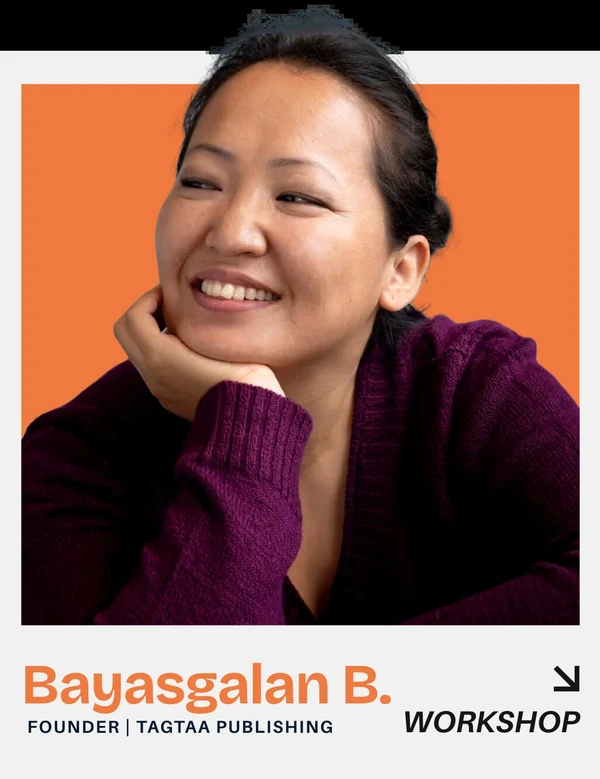
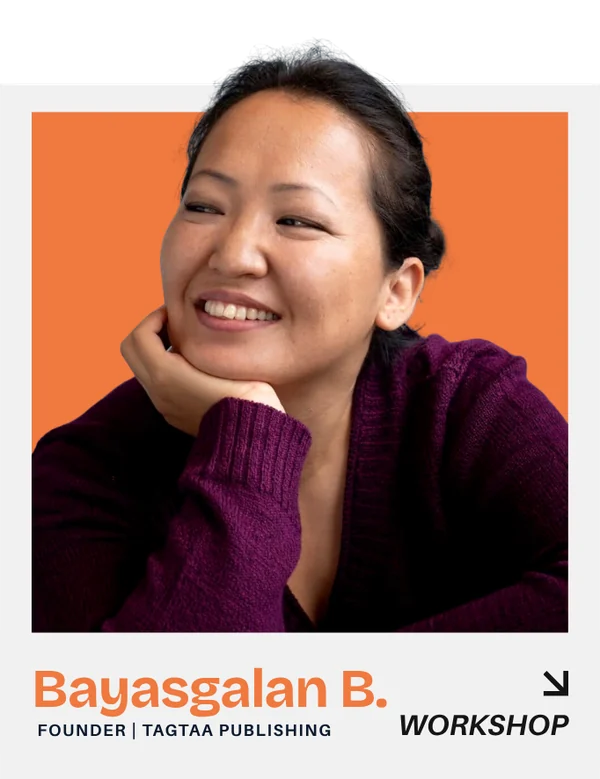
Add the three new card masters and redo their derivatives
Bayasgalan, Ogo and Yulkendy arrived as derived WebPs only, cropped
tighter than the other eight: the frame's side margins were cut off and
the top of the hair clipped. Their masters are here now, and the card
and face copies are rebuilt from them with the documented crop, so all
eleven cards frame identically.

Also drops the five headshots the 2026 pages stopped using, and points
nhub.html's hero at the photo it was already falling back to —
nhub-2022-boston.jpg has never existed in the repo.

Claude-Session: https://claude.ai/code/session_01RxyfAX6zc7pmK82cHkvsg3

diff --git a/nhub.html b/nhub.html
@@ -49,7 +49,7 @@
 <!-- ============ HERO · photo card with overlay (programs.html pattern) ============ -->
 <section class="l-hero">
   <div class="l-hero-photo">
-    <img src="assets/photos/nhub-2022-boston.jpg" alt="NHUB Team 2 presenting at MNG Summit 2022 Boston, Future of Work" onerror="this.src='assets/photos/nhub-tegshee-2024.jpg';" />
+    <img src="assets/photos/nhub-tegshee-2024.jpg" alt="NHUB participant presenting at MNG Summit 2024" />
     <div class="l-hero-photo-overlay"></div>
     <div class="l-hero-photo-content">
       <div class="micro micro--hot">Program 01 · Currently on hiatus</div>
